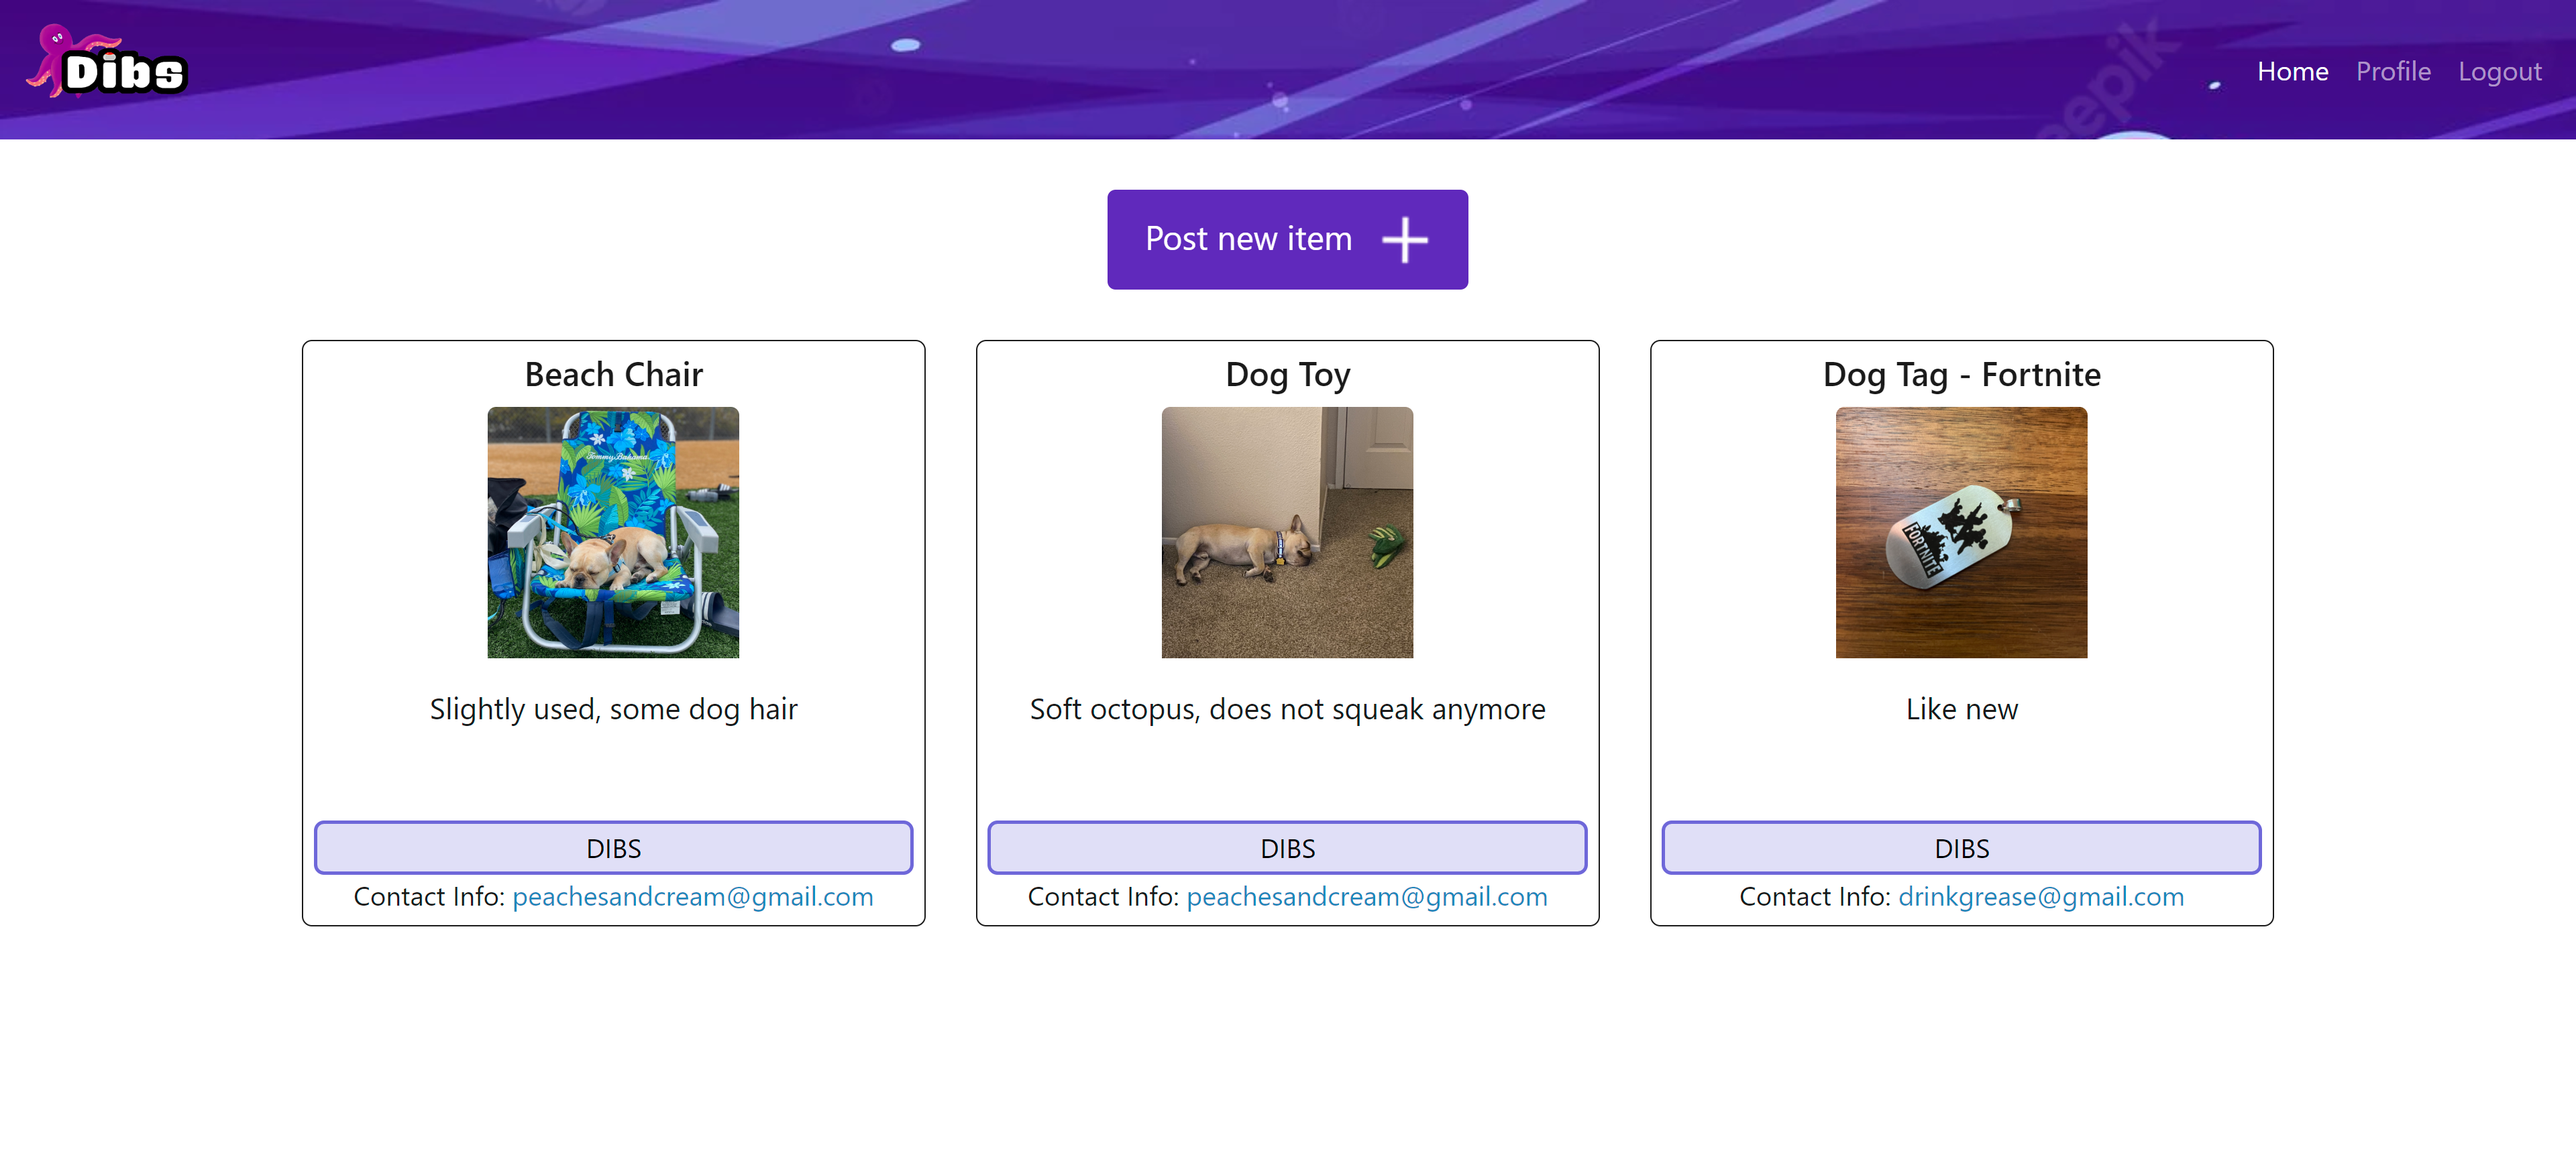
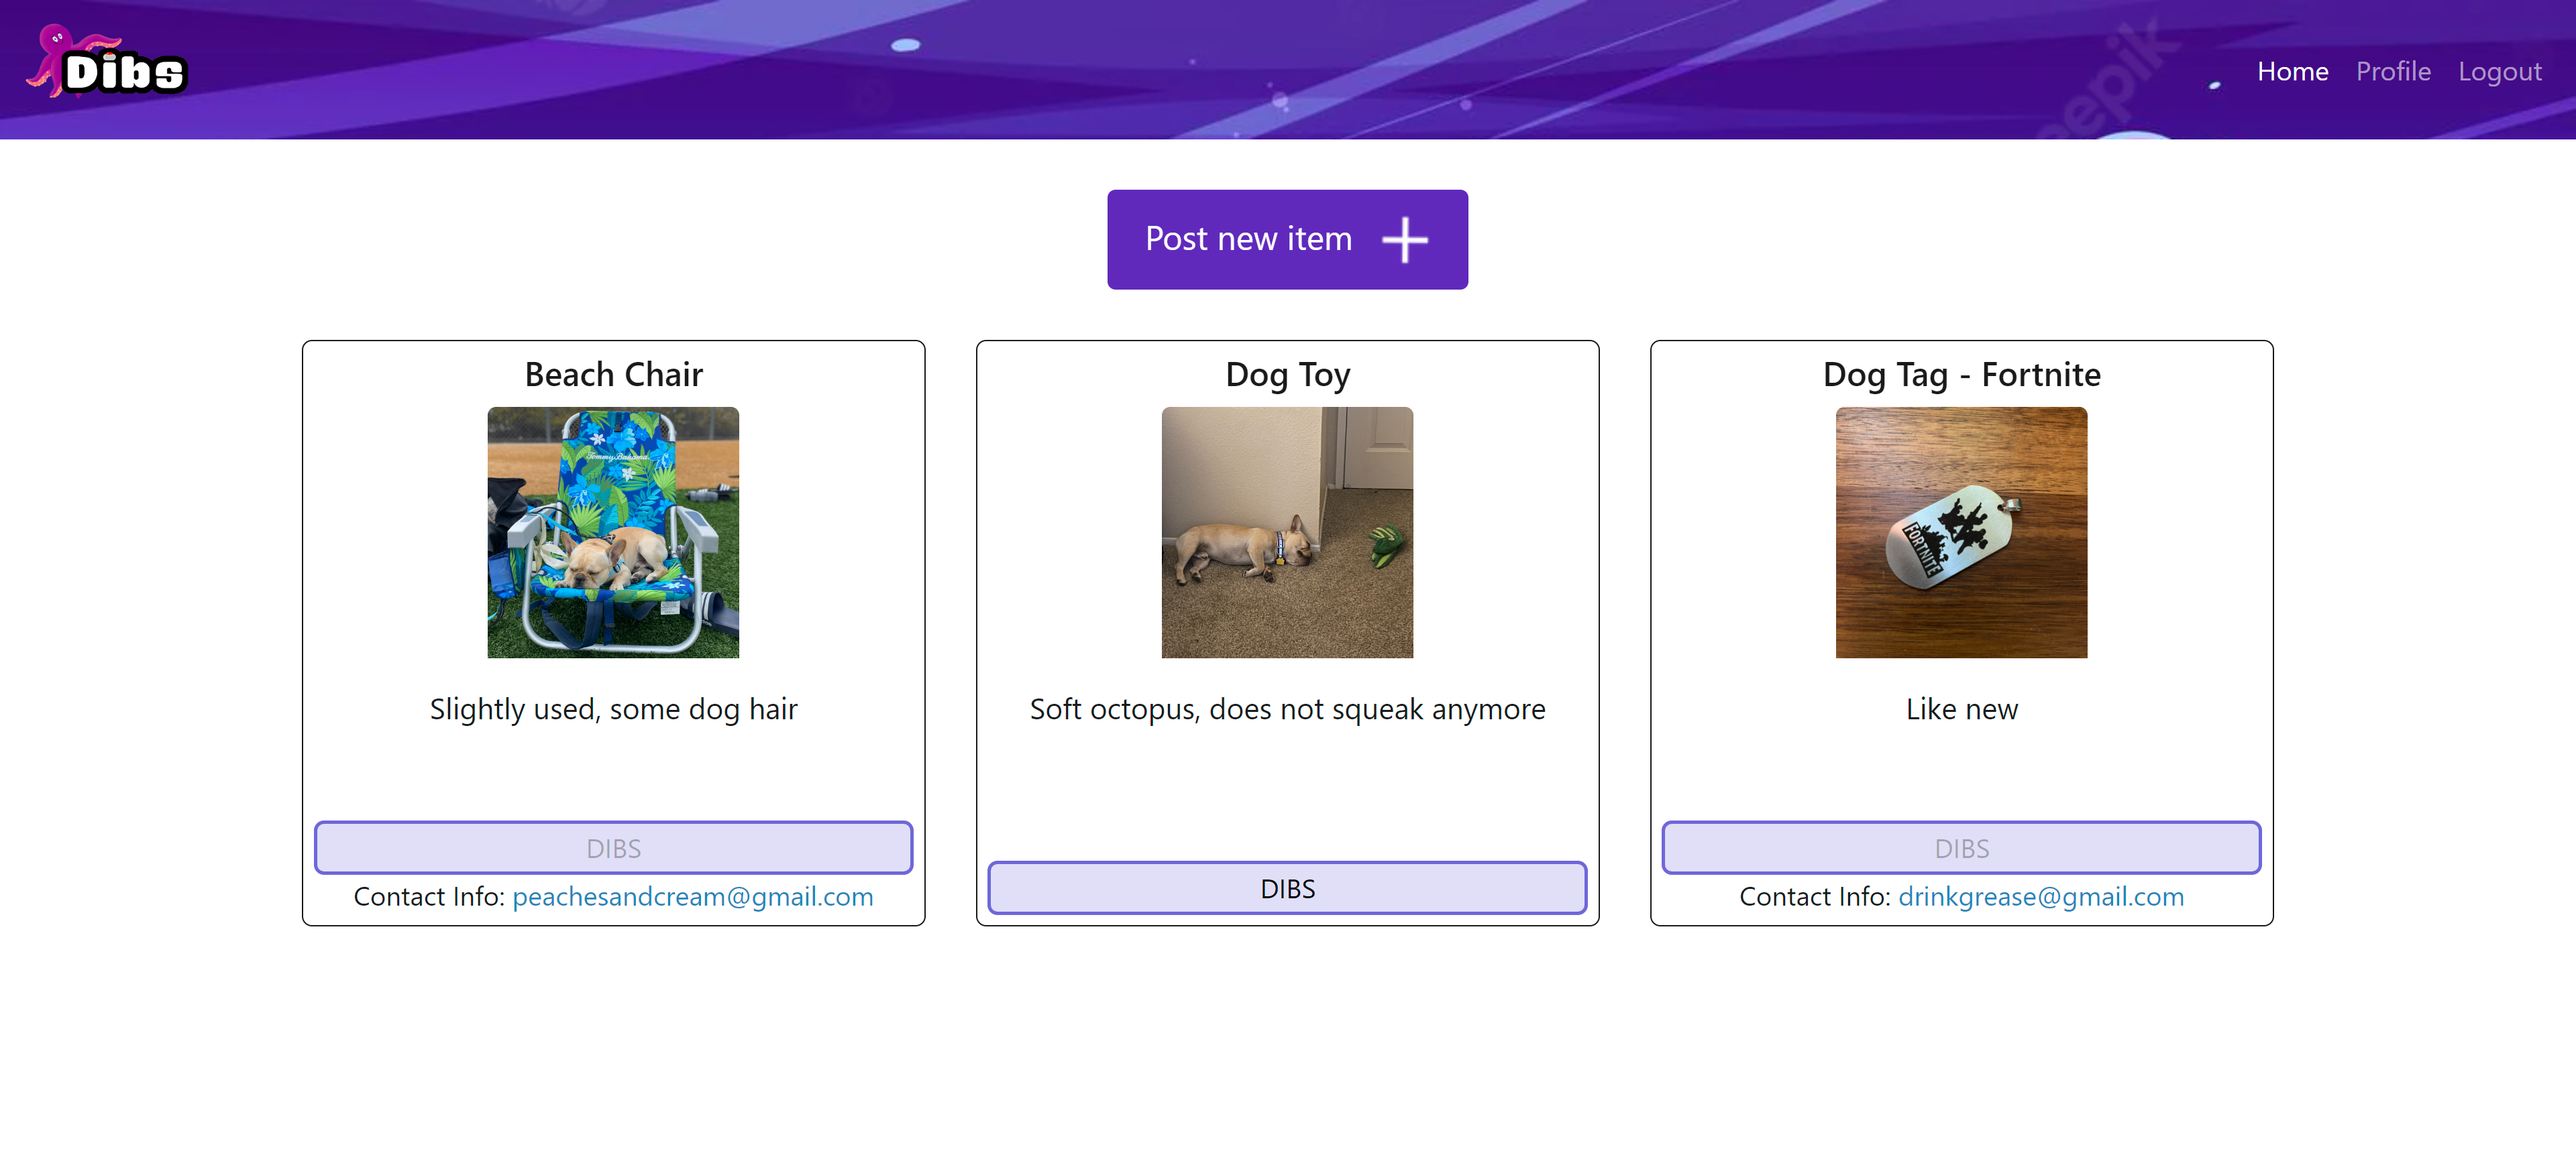
added new screenshots to show that contact info is only displayed when DIBS is called

Changed region(s): [[0.375, 0.7087, 0.625, 0.8012], [0.75, 0.7087, 0.7812, 0.7395], [0.2188, 0.7087, 0.25, 0.7395]]

diff --git a/README.md b/README.md
@@ -101,8 +101,8 @@ node server.js
 5) Posting an item:
 ![screencapture5](https://user-images.githubusercontent.com/108099192/196065715-1f446334-1b50-4bd8-88f6-24d8074e3824.png)
 
-6) Posted item:
-![screencapture6](https://user-images.githubusercontent.com/108099192/196065700-000807d5-2190-4129-bcef-6610c3765b5a.png)
+6) Posted item (note: there is no DIBS called, so you do not see contact info):
+![screencapture6](https://user-images.githubusercontent.com/108099192/196092410-84b2d409-7053-441e-a0e1-5e49f8392539.png)
 
 7) User's own profile with posted items:
 ![screencapture7](https://user-images.githubusercontent.com/108099192/196065692-061b4b6c-fdcf-4234-87e4-4c81af71a485.png)
@@ -116,8 +116,8 @@ node server.js
 10) Different user's post:
 ![screencapture10](https://user-images.githubusercontent.com/108099192/196066189-43369575-dacb-408d-bae0-b9afe9e2f82a.png)
 
-11) Homepage comprised of all posted items from different users:
-![screencapture11](https://user-images.githubusercontent.com/108099192/196066191-2ad09c0f-a720-4457-8407-02a19c176bb5.png)
+11) Homepage comprised of all posted items from different users (note: Can only see user contact info if you called DIBS):
+![screencapture11](https://user-images.githubusercontent.com/108099192/196092417-27c1c078-ac07-4f23-880c-f85e5275659c.png)
 
 
 ## Collaborators
